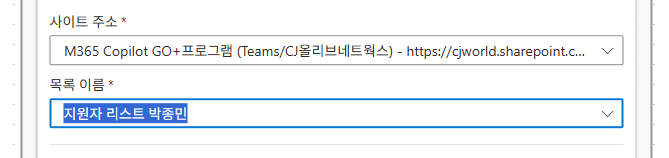
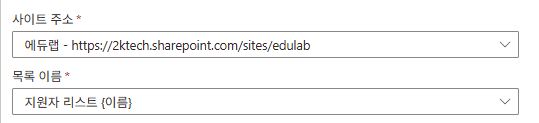
docs: 실측 반영 — 재촬영 컷과 본문 교정
2026-08-31~09-02 실측에서 어긋난 지점을 반영한다.

- 스크린샷 31장을 다시 찍었다 (lab1~lab7)
- 본문의 환경 변수 언급을 전부 뺐다. 교육 환경에 환경 변수가 없고
  SP 사이트를 사전 안내하므로 "왜 안 쓰는가"를 설명할 대상이 없다.
  lab5 는 콜아웃이 지워지며 여는 펜스만 사라져 이후 본문이 통째로
  코드블록으로 렌더되고 있었다 — 닫힌 펜스를 지웠다
- 시드 인원 42명 → 10명. edulab 은 10인으로 축소해 배포했다
- 폴더명 `이력서 샘플` → `이력서샘플`. 실물에는 공백이 없다
- 환경 이름을 _config.yml 의 lab_env 로 뺀다. 회차·테넌트마다 바뀌는
  값이라 본문 두 곳에 직접 적혀 있던 것을 한 곳으로 모았다

실측 리포트에서 수강생용 「SP List 사전 데이터 복제」 흐름의 결함 7건을
폐기했다 — 배포했고 10인 시드로 돌고 있다. 교안 쪽으로 남은 폴더 경로
항목만 Lab 4 절로 옮겼다.

Changed region(s): [[0.0, 0.0, 0.9796, 1.0]]

diff --git a/docs/lab2.md b/docs/lab2.md
@@ -16,7 +16,8 @@ nav_order: 3
      - ★ 근거 없는 응답 허용 ON 필수 — 끄면 마지막 '경계 스스로 설명' 시연이 폴백으로 깨짐.
      - 지침 3블록은 v1 u3-3 본문. 회사명 누리커머스(주). 최종은 `면접관 에이전트 지침` 파일과 동기화.
      - Knowledge 4종 PDF는 강사 제공. cs_lab_v2/assets/knowledge_base/에 넣으면 다운로드 링크화 가능.
-     - ⚠ 시간: 솔루션 선택·근거없는응답 토글·지침 3블록·5문항 시연 추가로 실제 12~15분 가능 → 오전 배분 재점검 필요(헤더 10분은 잠정). -->
+     - ⚠ 시간: 솔루션 선택·근거없는응답 토글·지침 3블록·5문항 시연 추가로 실제 12~15분 가능 → 오전 배분 재점검 필요(헤더 10분은 잠정).
+     - ★ 2026-09-07: 시작 전 콜아웃의 환경 이름을 _config.yml 의 lab_env 로 뺐다. lab1.md 와 같은 값을 본다. -->
 
 {: .time }
 **10분.** 클릭은 적지만 **무엇을 알려줄지 고르는** 랩입니다.
@@ -50,14 +51,14 @@ nav_order: 3
 > [회사 지침 문서 다운로드](../assets/download/회사%20지침%20문서.pdf)
 
 
-**지식 4종 PDF**를 내려받아 둡니다 — 채용 가이드 / 직무기술서(JD) / 회사 지침 / 평가 루브릭.
+**지식 4종 PDF**를 내려받아 둡니다 — 채용 가이드 / 직무기술서(JD) / 회사 지침 / 평가 루브릭. (혹은 사전에 지정된 쉐어포인트의 링크를 참조하세요)
 
 {: .warning }
 > ## ⚠ 시작 전에 — 환경부터 확인하세요
 >
-> Copilot Studio 우측 상단 **환경**이 **`2026 에이전트 교육 및 지원`** 인지 **반드시** 확인합니다. Lab 1에서 솔루션을 열었던 그 환경입니다.
+> Copilot Studio 우측 상단 **환경**이 **`{{ site.lab_env }}`** 인지 **반드시** 확인합니다. Lab 1에서 솔루션을 열었던 그 환경입니다.
 >
-> **다른 환경(기본 환경 등)에서 만들면 이후 랩이 전부 막힙니다.** 에이전트는 만들어지지만 Lab 1에서 만든 목록도, Lab 6·7에서 붙일 흐름도 보이지 않습니다. 그때는 **처음부터 다시 만들어야 합니다.**
+> **다른 환경(기본 환경 등)에서 만들면 이후 랩이 전부 막힙니다.** 에이전트는 만들어지지만 Lab 1에서 만든 목록도, Lab 6·7에서 붙일 흐름도 보이지 않습니다. 
 >
 > 지금 화면 오른쪽 위를 보고, 환경 이름이 다르면 클릭해서 바꾸고 시작하세요.
 
@@ -69,14 +70,17 @@ nav_order: 3
 
     ![에이전트 → 빈 에이전트](../assets/lab2/01.png)
 
-2. **이름**에 `면접관 에이전트`를 입력합니다. 솔루션이 Lab1에서 작업한 솔루션이 되도록 선택합니다. 에이전트 이름에 영문, 숫자가 없다면 스키마 이름이 공란이 됩니다. 직접 영문명을 입력해서 에이전트를 만듭니다.
+2. **이름**에 `면접관 에이전트`를 입력합니다. 솔루션 기본 솔루션을 선택합니다. 솔루션의 목적은 에이전트나 여러 Power Automate요소들의 묶음입니다. 처음부터 지정해도 되고 만들고 난 후 추가해도 됩니다.에이전트 이름에 영문, 숫자가 없다면 스키마 이름이 공란이 됩니다. 직접 영문명을 입력해서 에이전트를 만듭니다.
 
     {: .important }
     **Lab 1에서 연 그 솔루션을 선택하세요.** 오늘 만드는 흐름과 에이전트가 한 솔루션에 모여 있어야 Lab 6·7에서 서로를 도구로 붙일 때 헤매지 않습니다. 기본 솔루션에 만들면 나중에 옮기기 번거롭습니다.
 
     ![이름·솔루션 선택](../assets/lab2/02.png)
 
-3. **설명**에 `승인된 지원자를 조회·평가하고 면접 질문을 돕는 채용 도우미`를 입력합니다.
+3. **설명**에 아래와 같이 입력합니다. 
+```
+승인된 지원자를 조회·평가하고 면접 질문을 돕는 채용 도우미
+``` 
 
     ![설명 입력](../assets/lab2/03.png)
 
@@ -93,7 +97,7 @@ nav_order: 3
     **근거 없는 응답 허용** 토글을 켜 둬야 도구가 없는 지금도 에이전트가 **"그건 실시간 데이터라 도구 없이 확인 못 한다"고 스스로 경계를 설명**합니다(아래 시연). 끄면 그런 응답이 폴백(오류 토픽)으로 차단됩니다.
     [Allow ungrounded responses — Microsoft Learn](https://learn.microsoft.com/microsoft-copilot-studio/knowledge-copilot-studio#allow-ungrounded-responses)
 
-5. **[지식(Knowledge)](./glossary.html#term-knowledge)** 탭에서 **+ 추가 → 파일 업로드**를 선택합니다.
+5. **[참조 자료(Knowledge)](./glossary.html#term-knowledge)** 탭에서 **+ 추가 → 파일 업로드**를 선택합니다.
 
     ![지식 추가 → 파일 업로드](../assets/lab2/05.png)
 
@@ -142,13 +146,14 @@ nav_order: 3
 
     ![지침 저장 + 게시](../assets/lab2/09.png)
 
-    {: .warning }
-    지침을 바꿔도 동작이 그대로면 **게시 여부**를 먼저 확인하세요. 저장만 하고 게시 안 해 옛 동작이 유지되는 경우가 흔합니다. 또한 에이전트 설정 변경 후  테스트시 **새 테스트 세션 시작** 을 클릭해서 컨텍스트 초기화가 필요합니다.
+    > 에이전트는 테스트를 위해 반드시 게시를 할 필요는 없습니다.
+
 
 10. 지식이 모두 **Ready**인지 확인하고, 테스트 패널에 `백엔드 채용 기준이 뭐야?`를 입력합니다 → JD 근거 답변.
 
     {: .note }
     지식 인덱싱이 아직 완료되지 않았다면 **아래 테스트는 건너뛰고 Lab 3을 먼저 진행**하세요. Lab 3에서 커넥터를 설정하는 동안 인덱싱이 완료되며, 이후 돌아와서 테스트해도 됩니다.
+    파일을 직접 업로드할 경우 약 5분에 10분정도의 인덱싱 시간이 필요합니다.
 
     ![채용 기준 답변](../assets/lab2/10.png)
 

diff --git a/docs/lab1.md b/docs/lab1.md
@@ -5,19 +5,19 @@ nav_order: 2
 
 # Lab 1. 환경 초기화 📦
 
-> **이번 랩 완성물**: 지원자 42명과 이력서 파일이 들어 있는 **내 SharePoint 목록**
+> **이번 랩 완성물**: 지원자 10명과 이력서 파일이 들어 있는 **내 SharePoint 목록**
 >
-> **예상 시간**: 10분 · **완성 신호**: SharePoint **지원자** 리스트에 지원자 42명이 채워져 있음
+> **예상 시간**: 10분 
 
 <!-- 저작 메모(학생 비노출):
      ★ 2026-06-29 전면 재작성. zip 배포 폐기 → 공용 솔루션에서 흐름 다른 이름으로 저장 방식으로 전환.
      ★ 솔루션명 = "2026 Agent Intermediate Solution" (사전 배포, 교육 환경에 고정).
-     ★ 흐름 1개 = "SP List 사전 데이터 복제" (리스트 생성 + 데이터 42명 적재 + PDF 적재 통합).
+     ★ 흐름 1개 = "SP List 사전 데이터 복제" (리스트 생성 + 데이터 10명 적재 + PDF 적재 통합).
      ★ 수강생은 해당 흐름을 "다른 이름으로 저장" → "SP List 사전 데이터 복제 (본인이름)" 으로 소유권 이전.
 
      ═══ 환경 프로비저닝 구조 (2026-07-31 정리) ═══
      흐름은 두 갈래다. 헷갈리지 말 것.
-       [수강생용] "SP List 사전 데이터 복제" — Lab 1에서 각자 복사해 실행. 리스트 생성 + 지원자 42명 적재.
+       [수강생용] "SP List 사전 데이터 복제" — Lab 1에서 각자 복사해 실행. 리스트 생성 + 지원자 10명 적재.
        [강사 사전준비용] 별도 3개 — 수강생에게 노출하지 않는다.
          1) SP Site 자동생성
          2) SP List 자동생성
@@ -35,9 +35,12 @@ nav_order: 2
      Power Automate · Copilot Studio · SharePoint 사이트 접근 · 환경 메이커(Environment Maker).
      ★ SP 콘텐츠 승인(Approve) 권한은 불필요하다 — 그 권한이 사이트 관리자급이라 교육 대상자에게 주기 어려워서
        SP 내장 승인을 버리고 별도 Choice 컬럼(요약승인상태)으로 전환한 것이다. 상세는 lab5.md 저작 메모 참조.
-     ★ 2026-07-28: 환경 변수(SPSiteUrl) 사용 폐기 → 사이트 주소는 전 랩에서 값 직접 입력(https://2ktech.sharepoint.com/sites/edulab).
-       사유: CS가 환경 변수 값을 늦게 인식하거나 못 읽는 사례 다수. 시티즌 대상은 안정성 우선.
-     ★ 실행 UI 라벨(테스트→수동→실행)은 촬영 시 최종 확인. -->
+     ★ 사이트 주소는 전 랩에서 값 직접 입력(https://2ktech.sharepoint.com/sites/edulab).
+       2026-09-07: 본문에서 환경 변수 언급을 전부 뺐다. 교육 환경에 환경 변수가 없고 SP 사이트를 사전 안내하므로
+       "왜 안 쓰는가"를 설명할 대상 자체가 없다. 되살리지 말 것.
+     ★ 실행 UI 라벨(테스트→수동→실행)은 촬영 시 최종 확인.
+     ★ 2026-09-07: 환경 이름을 _config.yml 의 lab_env 로 뺐다. 현재 값 "교육"(에듀랩 실측 환경).
+       본문에 직접 쓰지 않는다 — 회차마다 바뀌는 값이라 lab2.md 와 두 곳에서 어긋난 적이 있다. -->
 
 {: .time }
 **10분.** 직접 만드는 건 적습니다 — 준비된 흐름을 내 것으로 복사해 한 번 실행하면 끝납니다.
@@ -57,7 +60,7 @@ nav_order: 2
 
 ## 단계
 
-1. 브라우저에서 [https://make.powerautomate.com](https://make.powerautomate.com/) 으로 이동합니다. 우측 상단 **환경 선택기**를 클릭해 **2026 에이전트 교육 및 지원**을 선택합니다.
+1. 브라우저에서 [https://make.powerautomate.com](https://make.powerautomate.com/) 으로 이동합니다. 우측 상단 **환경 선택기**를 클릭해 **{{ site.lab_env }}** 환경을 선택합니다.
     
     ![환경 선택기에서 교육용 환경 선택](../assets/lab1/01.png)
 
@@ -65,7 +68,7 @@ nav_order: 2
 
     ![왼쪽 메뉴의 '솔루션' 항목](../assets/lab1/02.png)
 
-3. **`2026 Agent Intermediate Solution`** 솔루션을 찾아 클릭해 엽니다.
+3. **`HR 채용 자동화 사용자 용`** 솔루션을 찾아 클릭해 엽니다.
 
     ![2026 Agent Intermediate Solution 솔루션 클릭](../assets/lab1/03.png)
 
@@ -101,21 +104,20 @@ nav_order: 2
     {: .important }
     이때 지정한 리스트 이름이 오늘 교육중 사용하게 될 리스트 이름입니다. 타인과 겹치지 않게 본인의 이름을 넣어서 생성하세요. 
 
-8. 새 탭에서 교육용 **SharePoint 사이트**로 이동해 내 **지원자** 리스트를 엽니다. 행이 **42개** 채워져 있는지 확인합니다.
+8. 새 탭에서 교육용 **SharePoint 사이트**로 이동해 내 **지원자** 리스트를 엽니다.
 
     [에듀랩 SharePoint 사이트 콘텐츠 링크](https://2ktech.sharepoint.com/sites/edulab/_layouts/15/viewlsts.aspx)
 
     ![실행 성공 — 각 단계 초록 체크](../assets/lab1/08.png)
 
     {: .important }
-    이곳에 생성한 리스트 이름과. 유형 `목록`을 확인하시고 사전데이터 42인이 잘 보이는지 테스트해주세요.
+    이곳에 생성한 리스트 이름과. 유형 `목록`을 확인하시고 사전데이터 10인이 잘 보이는지 테스트해주세요.
 
 ---
 
 ## 확인
 
 - [ ] `SP List 사전 데이터 복제 (본인이름)` 흐름이 내 소유로 저장되었다
-- [ ] 흐름 실행이 성공해 지원자 42명이 채워졌다
+- [ ] 흐름 실행이 성공해 지원자 10명이 채워졌다
 
-{: .important }
-방금 한 일 — **기존 흐름을 복사해 내 환경에 데이터를 세팅했다** — 오늘 실습에 쓸 지원자 42명이 준비됐습니다. Lab 2부터 이 데이터를 가지고 에이전트를 만듭니다.
+

diff --git a/_instructions/실측_리포트_2026-09.md b/_instructions/실측_리포트_2026-09.md
@@ -106,6 +106,7 @@ File Path    : 이력서샘플/20260623_004855_0175b72c.pdf   ← DocLib/ 누락
 16. **26단계 앞에 화면이 하나 더 있다.** 테스트 → 「흐름 테스트」에서 **수동** 선택 → **「흐름 실행」 연결 확인 화면**(로그인 상태·사용 앱 목록·계속)을 거쳐야 입력 폼이 나온다.
 17. **26단계 이메일 칸은 자유 입력이 아니라 사람 선택 피커다.** 주소를 치면 「추천 사용자」 목록이 떠서 **골라야 칩이 된다.** 그냥 두고 실행하면 값이 안 들어간다.
 18. **28단계 「상태 보류 중」이 컬럼과 어긋난다.** 실제 값은 보류여부 `아니요`, 전형단계 `검토중`, 요약승인상태 `승인대기` 다. 「보류 중」이라는 컬럼값은 존재하지 않는다. 같은 페이지의 「확인」 절은 `승인대기`로 맞게 적혀 있으니 **본문만 틀렸다.**
+19. ~~**폴더 경로에 공백이 들어 있다.**~~ **2026-09-07 반영.** 본문이 `DocLib` > `이력서 샘플` 로 적던 것을 **실물 폴더명 `이력서샘플`(공백 없음)** 으로 고쳤다. lab4·lab4-alt 두 곳 모두. 이미지 alt 텍스트도 같이.
 
 ### 실행 결과 — 흐름은 교안대로 동작한다
 
@@ -344,19 +345,13 @@ Assets/      basic/ adv/ ghcp/    템플릿·배포물 (미신설)
 
 `Knowledge/adv/` 는 폴더를 문서별로 쪼개지 않는다. **Featured › SharePoint 지식 소스가 개별 파일 URL 을 받고 항목마다 이름·설명이 따로 붙는다.**
 
-### 미해결 — 수강생용 「SP List 사전 데이터 복제」 흐름
+### 수강생용 「SP List 사전 데이터 복제」 흐름 — 해소됨 (2026-09-07)
 
-**이 흐름은 실행 이력이 0건이다.** 2026-07-31 생성 후 한 번도 돌지 않았다. **배포 전에 아래를 고쳐야 한다.**
+2026-09-02 실측 시점에는 실행 이력 0건에 결함 7건이었다. **그 뒤 배포했고 10인 시드로 돌고 있다.**
+결함 목록(리스트 GUID·`ResumeLink` 객체 접근·폴더 경로 공백·`CareerLevel` 공백 불일치·
+첫 실행 404·`FolderPath` 참조·`조건` False 분기)은 더 추적하지 않는다.
 
-1. `항목 가져오기(2개 이상)` 의 원본이 **삭제된 사이트의 리스트 GUID** 로 고정 — `a21fdbf7-…` 로 교체. **Prev2 를 다시 돌리면 GUID 가 또 바뀌므로 그때마다 재지정해야 한다.**
-2. `substring(item()?['ResumeLink'], …)` — 하이퍼링크 열은 `{Url, Description}` 객체라 문자열이 아니다. `item()?['ResumeLink']?['Url']` 이어야 한다.
-3. `ResumeLink` 조립 경로가 `/DocLib/이력서 샘플/` — 공백이 들어 있다. **실물 폴더는 `이력서샘플`(공백 없음)로 확정했다.** 교안 본문 2곳도 같이 고친다 — [lab4.md](../docs/lab4.md) · [lab4-alt.md](../docs/lab4-alt.md) 가 「`DocLib` > `이력서 샘플`」로 적고 있다.
-4. `columnDefs` 의 `CareerLevel` 선택 항목은 `5년이상`(공백 없음)인데 데이터는 `5년 이상`(공백 있음). 원본 사이트에서 물려받은 불일치다.
-5. 첫 실행 때 `SharePoint에 HTTP 요청 보내기` 가 404 로 실패한다. 이어지기는 하지만 실행 결과가 실패로 표시될 수 있다(미실증).
-6. `반복 적용` 의 `FolderPath` 가 그 404 응답의 `RootFolder` 를 참조한다.
-7. `조건` 의 False 분기가 비어 있다. `내 프로필(V2)` 의 `mail` 과 SP `Author.UserPrincipalName` 비교라, 둘이 다른 계정에서는 항상 False.
-
-1·2·3 은 한 묶음이다 — 전부 edulab 기준으로 다시 쓰는 일이다.
+**교안 쪽으로 남은 것은 폴더 경로 하나다** — 위 Lab 4 절 19번으로 옮겼다.
 
 ### 곁가지
 
